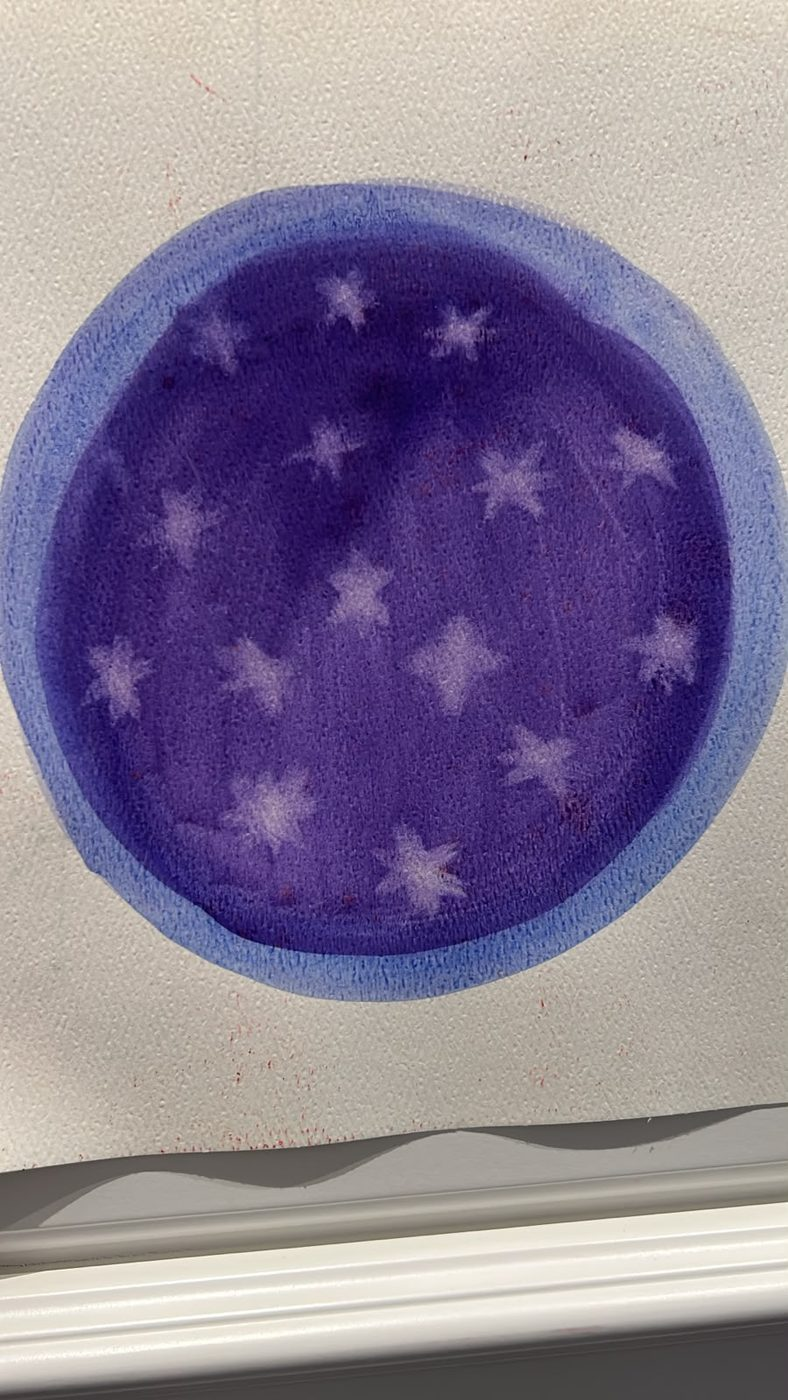
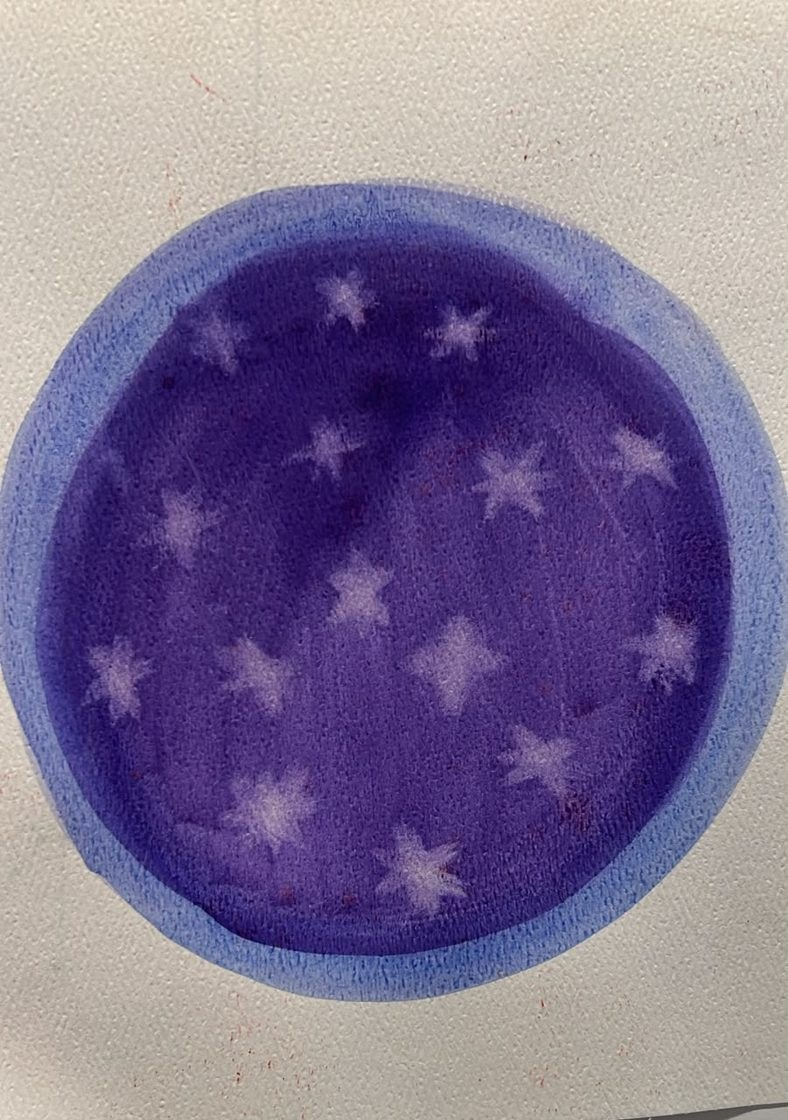
Carol: mujeres en crisis en negro, separa dos ejes en Personalismo/Logoterapia, ensancha box de Trascendencia, corrige bordes restantes del collage
"Mujeres en crisis" pasa de terracota a negro en el mapa de tres ambitos
(sigue en negrita). La slide combinada "Dos Ejes" se elimina; en su lugar
queda Personalismo (ya existia) seguida de una nueva slide dedicada a
Logoterapia (tres caminos al sentido, Viktor Frankl), mismo tratamiento
visual que Personalismo.

El box de texto del panel de Trascendencia (parejas) se ensancha de 36ch
a 52ch: estaba demasiado alto y angosto con la cita de Buber agregada,
ahora cubre un poco mas del placeholder de foto/video pero se ve mucho
mas proporcionado.

Bordes de pared/puerta restantes: c2.jpg (recorte de molde de puerta
abajo), c7.jpg (recorte de margen de papel en blanco), c15.jpg (recorte +
zoom propio via animacion czoom, el crop solo no alcanzaba porque el
margen palido se notaba igual contra la imagen vecina). Verificado con
cache-bust real en Puppeteer para descartar falsos positivos de cache de
imagenes en el navegador.

diff --git a/congreso-personalista/Carol/index.html b/congreso-personalista/Carol/index.html
@@ -99,6 +99,8 @@
     .collage .ov.teal{ background:linear-gradient(72deg, rgba(15,40,50,0.97) 0%, rgba(15,40,50,0.88) 35%, rgba(15,40,50,0.68) 60%, rgba(15,40,50,0.38) 80%, rgba(15,40,50,0.12) 95%); }
     .reveal .slides section.present .collage img{ animation:collageKen 26s ease-out both; }
     @keyframes collageKen{ from{ transform:scale(1.07);} to{ transform:scale(1.0);} }
+    .reveal .slides section.present .collage img.czoom{ animation:collageKenZoom 26s ease-out both; }
+    @keyframes collageKenZoom{ from{ transform:scale(1.32);} to{ transform:scale(1.2);} }
 
     /* Fondo de video (dos clips verticales) */
     .vidbg{ position:absolute; inset:0; display:flex; gap:2px; z-index:1; overflow:hidden; background:#0A1C24; }
@@ -214,25 +216,7 @@
       <img class="logo" src="../logos/4meaning-sand.png" alt="4Meaning">
     </section>
 
-    <!-- 03 · DOS EJES -->
-    <section data-background-color="#0F2832" class="dark">
-      <div class="grain"></div>
-      <div class="axes">
-        <div class="half">
-          <p class="k">Eje 1 &middot; Antropología</p>
-          <div class="n">Personalismo</div>
-          <p class="p">La persona: creadora, única, irrepetible, con una dignidad que no depende de las circunstancias. <span style="color:var(--taupe)">Wojtyła &middot; Burgos &middot; Mounier</span></p>
-        </div>
-        <div class="half">
-          <p class="k">Eje 2 &middot; Sentido</p>
-          <div class="n">Logoterapia</div>
-          <p class="p">Tres caminos al sentido: los valores creativos, los vivenciales y los de actitud. <span style="color:var(--taupe)">Viktor Frankl</span></p>
-        </div>
-      </div>
-      <img class="logo" src="../logos/4meaning-sand.png" alt="4Meaning">
-    </section>
-
-    <!-- 04 · PERSONALISMO (unidad en tres dimensiones) -->
+    <!-- 03 · PERSONALISMO (unidad en tres dimensiones) -->
     <section data-background-color="#0A1C24" class="dark">
       <div class="grain"></div>
       <div class="ghost" style="bottom:3%;right:-2%;font-size:15rem;color:var(--sand);">ESPÍRITU</div>
@@ -245,7 +229,7 @@
       <img class="logo" src="../logos/4meaning-sand.png" alt="4Meaning">
     </section>
 
-    <!-- 05 · LA PERSONA (monumental, maroon) -->
+    <!-- 04 · LA PERSONA (monumental, maroon) -->
     <section data-background-color="#4A1C2A" class="maroon-txt">
       <div class="orb terra" style="bottom:-20%;left:-8%;"></div>
       <div class="grain"></div>
@@ -254,6 +238,19 @@
         <p class="eyebrow">La persona</p>
         <h2 class="title lg">Creadora.<br>Única. <span class="accent">Digna.</span></h2>
         <p class="body">El ser humano es creador. Al crear, se construye a sí mismo. El cuerpo es «materia espiritualizada», el lienzo del espíritu.</p>
+      </div>
+      <img class="logo" src="../logos/4meaning-sand.png" alt="4Meaning">
+    </section>
+
+
+    <!-- 05 · LOGOTERAPIA (tres caminos al sentido) -->
+    <section data-background-color="#0A1C24" class="dark">
+      <div class="grain"></div>
+      <div class="ghost" style="bottom:3%;left:-2%;font-size:15rem;color:var(--sand);">SENTIDO</div>
+      <div class="stage">
+        <p class="eyebrow">Eje 2 &middot; Sentido</p>
+        <h2 class="title lg">Logoterapia.</h2>
+        <p class="body">Tres caminos al sentido: los valores <span class="accent">creativos</span>, los <span class="accent">vivenciales</span> y los de <span class="accent">actitud</span>. <span class="src">Viktor Frankl</span></p>
       </div>
       <img class="logo" src="../logos/4meaning-sand.png" alt="4Meaning">
     </section>
@@ -267,7 +264,7 @@
         <div class="cols">
           <div class="col"><div class="k">Valores creativos</div><div class="v">Niños</div><div class="d">En zonas de riesgo. Dar algo de sí al mundo.</div></div>
           <div class="col"><div class="k">Valores vivenciales</div><div class="v">Parejas</div><div class="d">El encuentro, el amor, el reconocimiento mutuo.</div></div>
-          <div class="col on"><div class="k">Valores de actitud</div><div class="v" style="font-weight:900;">Mujeres en crisis</div><div class="d">Reconstruir desde dentro cuando la realidad no cambia. Hoy: Paulina.</div></div>
+          <div class="col on"><div class="k">Valores de actitud</div><div class="v" style="font-weight:900;color:var(--ink);">Mujeres en crisis</div><div class="d">Reconstruir desde dentro cuando la realidad no cambia. Hoy: Paulina.</div></div>
         </div>
       </div>
 
@@ -290,7 +287,7 @@
           <div class="ap-placeholder"><span>Foto o video</span></div>
           <div class="ov maroon"></div>
         </div>
-        <div class="bcap">
+        <div class="bcap" style="max-width:52ch;">
           <p class="eyebrow">Valores vivenciales &middot; parejas</p>
           <h2 class="title lg">El encuentro<br>que dignifica.</h2>
           <p class="body">En Trascendencia, las parejas vuelven a su primera mirada: me reconozco en el tú como condición del yo.</p>
@@ -359,7 +356,7 @@
         </div>
         <div class="crow" style="flex:1;">
           <img class="p" src="imagenes/collage/c3.jpg" alt="" loading="lazy">
-          <img class="l" src="imagenes/collage/c15.jpg" alt="" loading="lazy">
+          <img class="l czoom" src="imagenes/collage/c15.jpg" alt="" loading="lazy" style="transform-origin:left center;">
           <img class="p" src="imagenes/collage/c2.jpg" alt="" loading="lazy">
         </div>
         <div class="ov teal"></div>
